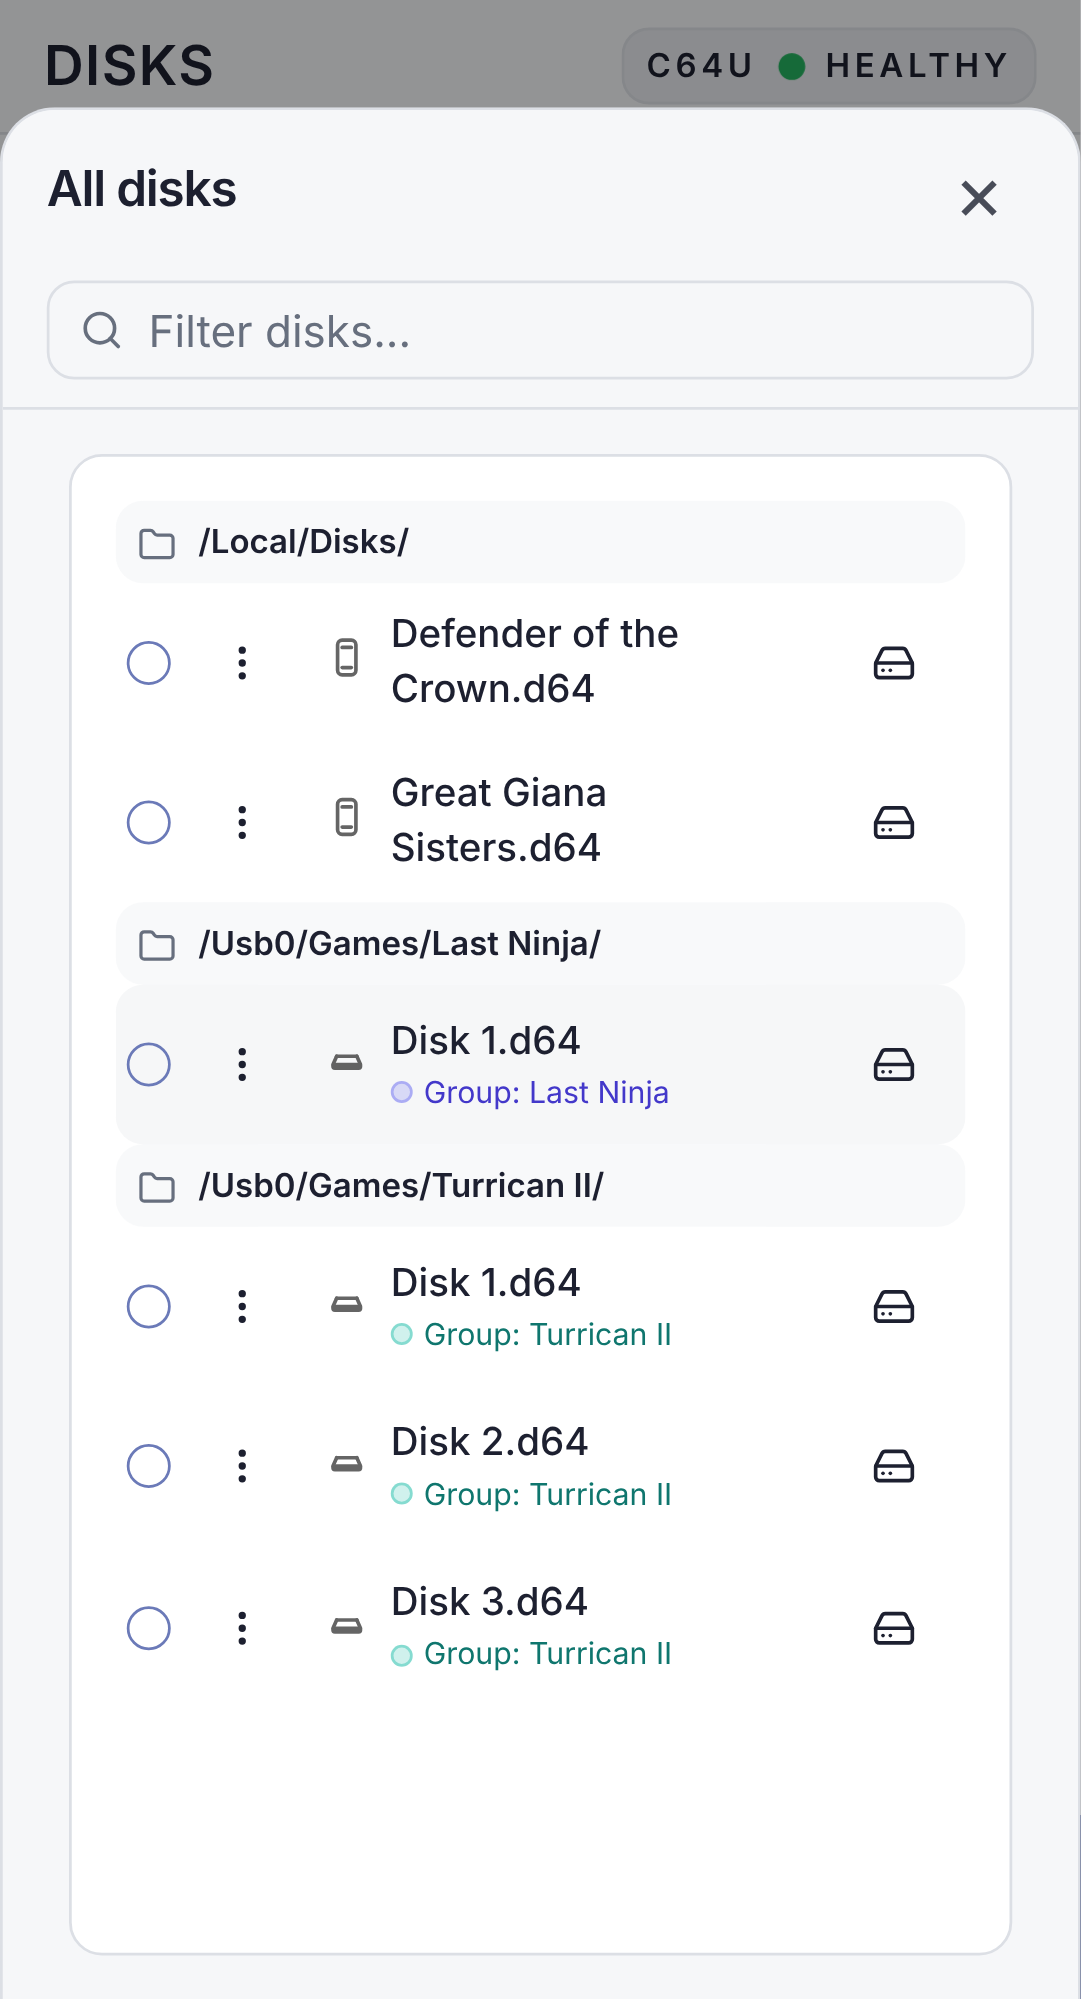
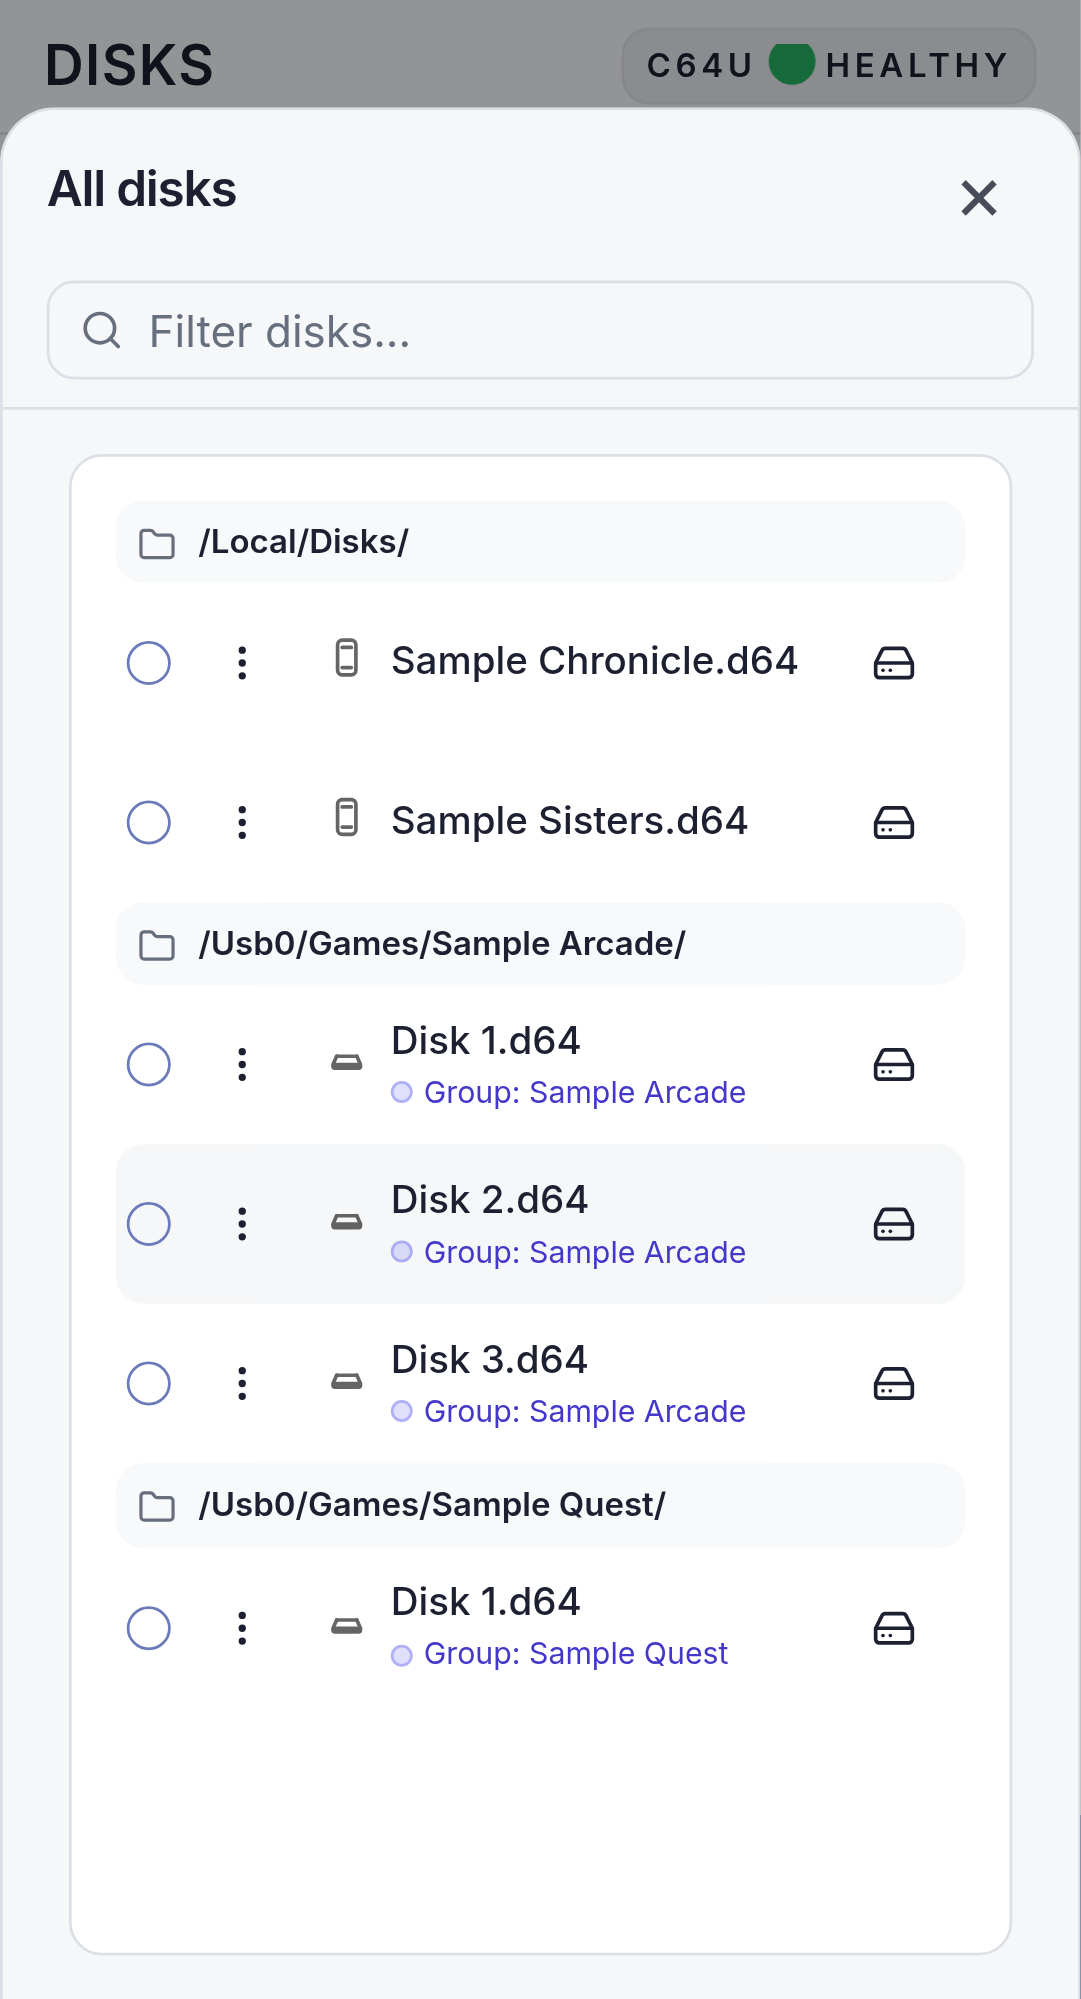
chore(demo): finish the neutral naming, and refresh the screenshots it changed
The disk collection screenshot showed the seeded titles outright, which turned up
two more the first pass missed — the two single-disk entries in the local seed —
plus a cartridge and a game name elsewhere in the seeds and unit tests. All now
plainly fictional.

Regenerated the three disks screenshots that render seeded content. Scoped to
that one capture rather than the whole corpus, so the diff is the three images
whose contents actually changed and nothing else.

diff --git a/tests/unit/media-index/inImageSearch.test.ts b/tests/unit/media-index/inImageSearch.test.ts
@@ -22,7 +22,7 @@ import type { DiskDirectoryEntry } from "@/lib/disks/diskImage";
 
 const dirEntry = (overrides: Partial<DiskDirectoryEntry> = {}): DiskDirectoryEntry => ({
   index: 2,
-  name: "TURRICAN",
+  name: "SAMPLEGAME",
   rawName: new Uint8Array(16),
   type: "PRG",
   closed: true,
@@ -61,7 +61,7 @@ describe("inImageSearch — toChildEntry", () => {
   it("maps a directory entry to a child with a compound path and container", () => {
     const entry = toChildEntry("/GAMES/COMPILATION.D64", "d64", 174848, "2026-06-01", dirEntry());
     expect(entry.path).toBe("/GAMES/COMPILATION.D64#2");
-    expect(entry.name).toBe("TURRICAN");
+    expect(entry.name).toBe("SAMPLEGAME");
     expect(entry.type).toBe("prg");
     expect(entry.sizeBytes).toBe(40 * 254);
     expect(entry.container).toMatchObject({
@@ -119,24 +119,24 @@ describe("inImageSearch — cache freshness + supersede", () => {
 describe("inImageSearch — search", () => {
   const entries: MediaEntryV2[] = [
     { path: "/GAMES/COMPILATION.D64", name: "Compilation Disk", type: "disk" },
-    child("/GAMES/COMPILATION.D64", "TURRICAN", 0),
-    child("/GAMES/COMPILATION.D64", "TURRICAN LEVEL 2", 1),
+    child("/GAMES/COMPILATION.D64", "SAMPLEGAME", 0),
+    child("/GAMES/COMPILATION.D64", "SAMPLEGAME LEVEL 2", 1),
     child("/GAMES/OTHER.D64", "SOMETHING ELSE", 0),
   ];
 
   it("ignores children when the toggle is off", () => {
-    const hits = searchMediaEntries(entries, "turrican", { searchInsideDisks: false });
+    const hits = searchMediaEntries(entries, "samplegame", { searchInsideDisks: false });
     expect(hits).toHaveLength(0);
   });
 
   it("matches child names when the toggle is on (case-insensitive)", () => {
-    const hits = searchMediaEntries(entries, "turrican", { searchInsideDisks: true });
-    expect(hits.map((e) => e.name)).toEqual(["TURRICAN", "TURRICAN LEVEL 2"]);
+    const hits = searchMediaEntries(entries, "samplegame", { searchInsideDisks: true });
+    expect(hits.map((e) => e.name)).toEqual(["SAMPLEGAME", "SAMPLEGAME LEVEL 2"]);
   });
 
   it("ANDs multiple terms", () => {
-    const hits = searchMediaEntries(entries, "turrican level", { searchInsideDisks: true });
-    expect(hits.map((e) => e.name)).toEqual(["TURRICAN LEVEL 2"]);
+    const hits = searchMediaEntries(entries, "samplegame level", { searchInsideDisks: true });
+    expect(hits.map((e) => e.name)).toEqual(["SAMPLEGAME LEVEL 2"]);
   });
 
   it("still matches top-level entries regardless of the toggle", () => {

diff --git a/playwright/visualSeeds.ts b/playwright/visualSeeds.ts
@@ -60,9 +60,9 @@ export const DISK_LIBRARY_SEED = [
     importOrder: 1,
   },
   {
-    id: "local:/Local/Disks/Defender of the Crown.d64",
-    name: "Defender of the Crown.d64",
-    path: "/Local/Disks/Defender of the Crown.d64",
+    id: "local:/Local/Disks/Sample Chronicle.d64",
+    name: "Sample Chronicle.d64",
+    path: "/Local/Disks/Sample Chronicle.d64",
     location: "local",
     group: null,
     sizeBytes: 174848,
@@ -71,9 +71,9 @@ export const DISK_LIBRARY_SEED = [
     importOrder: 4,
   },
   {
-    id: "local:/Local/Disks/Great Giana Sisters.d64",
-    name: "Great Giana Sisters.d64",
-    path: "/Local/Disks/Great Giana Sisters.d64",
+    id: "local:/Local/Disks/Sample Sisters.d64",
+    name: "Sample Sisters.d64",
+    path: "/Local/Disks/Sample Sisters.d64",
     location: "local",
     group: null,
     sizeBytes: 174848,
@@ -114,8 +114,8 @@ export const PLAYLIST_SEED = {
     },
     {
       source: "ultimate",
-      path: "/Usb0/Games/SpaceTaxi.d64",
-      name: "SpaceTaxi.d64",
+      path: "/Usb0/Games/SampleShuttle.d64",
+      name: "SampleShuttle.d64",
       durationMs: 300000,
       sizeBytes: 174848,
       modifiedAt: "2024-03-19T08:05:00.000Z",
@@ -123,8 +123,8 @@ export const PLAYLIST_SEED = {
     },
     {
       source: "ultimate",
-      path: "/Usb0/Cartridges/ActionReplay.crt",
-      name: "ActionReplay.crt",
+      path: "/Usb0/Cartridges/SampleFreezer.crt",
+      name: "SampleFreezer.crt",
       durationMs: 120000,
       sizeBytes: 65536,
       modifiedAt: "2024-03-19T09:00:00.000Z",

diff --git a/c64scope/tests/testDataDiscovery.test.ts b/c64scope/tests/testDataDiscovery.test.ts
@@ -64,7 +64,7 @@ describe("test-data discovery", () => {
       )
       .mockImplementationOnce(
         (_file: string, _args: string[], callback: (error: null, result: { stdout: string }) => void) => {
-          callback(null, { stdout: "last-ninja\nturrican2\nDisk 1.d64\n" });
+          callback(null, { stdout: "sample-quest\nsample-arcade\nDisk 1.d64\n" });
         },
       )
       .mockImplementationOnce(
@@ -110,7 +110,7 @@ describe("test-data discovery", () => {
 
     expect(discovery.sidPath).toBe("/USB2/test-data/SID");
     expect(discovery.sidCandidates).toEqual(["10_Orbyte.sid", "12th_Sector_Music.sid"]);
-    expect(discovery.multiDiskDirectories).toEqual(["last-ninja", "turrican2"]);
+    expect(discovery.multiDiskDirectories).toEqual(["sample-quest", "sample-arcade"]);
     expect(discovery.approximateFileCount).toBe(60759);
     expect(discovery.approximateDirectoryCount).toBe(1996);
   });

diff --git a/c64scope/tests/agenticExploratoryWave1.test.ts b/c64scope/tests/agenticExploratoryWave1.test.ts
@@ -88,11 +88,11 @@ describe("agentic exploratory wave 1", () => {
         rootPath: "/USB2/test-data",
         sidPath: "/USB2/test-data/SID",
         topLevelEntries: ["SID", "d64"],
-        d64Entries: ["last-ninja"],
+        d64Entries: ["sample-quest"],
         sidEntriesSample: ["Track1.sid", "Track2.sid"],
         hvscRootEntries: ["C64Music"],
         sidCandidates: ["Track1.sid", "Track2.sid"],
-        multiDiskDirectories: ["last-ninja"],
+        multiDiskDirectories: ["sample-quest"],
         approximateFileCount: 60759,
         approximateDirectoryCount: 1996,
         approximateMaxDepth: 6,

diff --git a/tests/unit/hvsc/hvscBrowseIndexStore.test.ts b/tests/unit/hvsc/hvscBrowseIndexStore.test.ts
@@ -551,7 +551,7 @@ describe("hvscBrowseIndexStore", () => {
 
     const snapshot = build([
       { path: "/MUSICIANS/H/Hubbard_Rob/Commando.sid", name: "Commando.sid", type: "sid", durationSeconds: 123 },
-      { path: "/GAMES/Last_Ninja.sid", name: "Last_Ninja.sid", type: "sid", durationSeconds: 95 },
+      { path: "/GAMES/Sample_Quest.sid", name: "Sample_Quest.sid", type: "sid", durationSeconds: 95 },
     ]);
 
     if (typeof localStorage !== "undefined") {

diff --git a/tests/unit/lib/diagnostics/heatMapData.test.ts b/tests/unit/lib/diagnostics/heatMapData.test.ts
@@ -278,7 +278,7 @@ describe("buildFtpHeatMap", () => {
       makeEvent("ftp-operation", { operation: "NLST", path: "/Usb0/Demos", result: "success", durationMs: 10 }),
       makeEvent("ftp-operation", {
         operation: "RETR",
-        path: "/Usb0/Cartridges/ActionReplay.crt",
+        path: "/Usb0/Cartridges/SampleFreezer.crt",
         result: "success",
         durationMs: 16,
       }),
